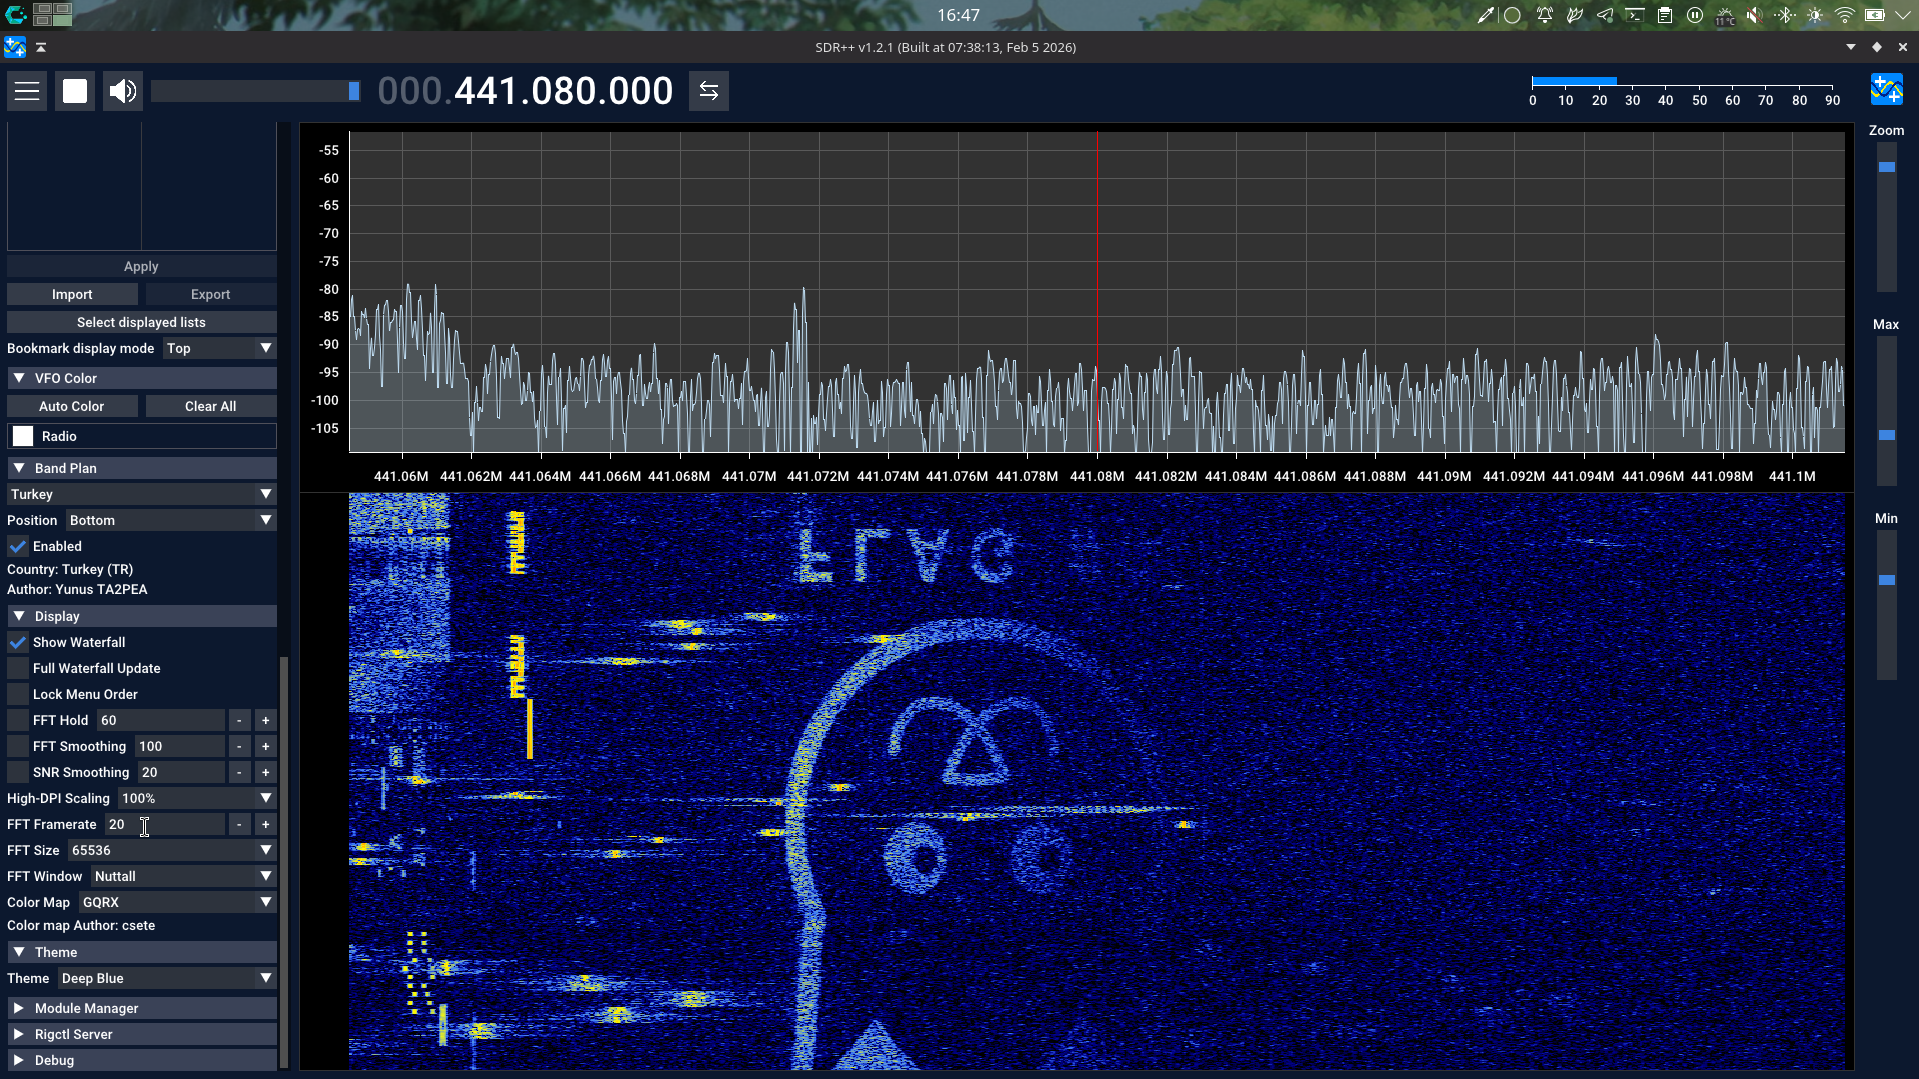
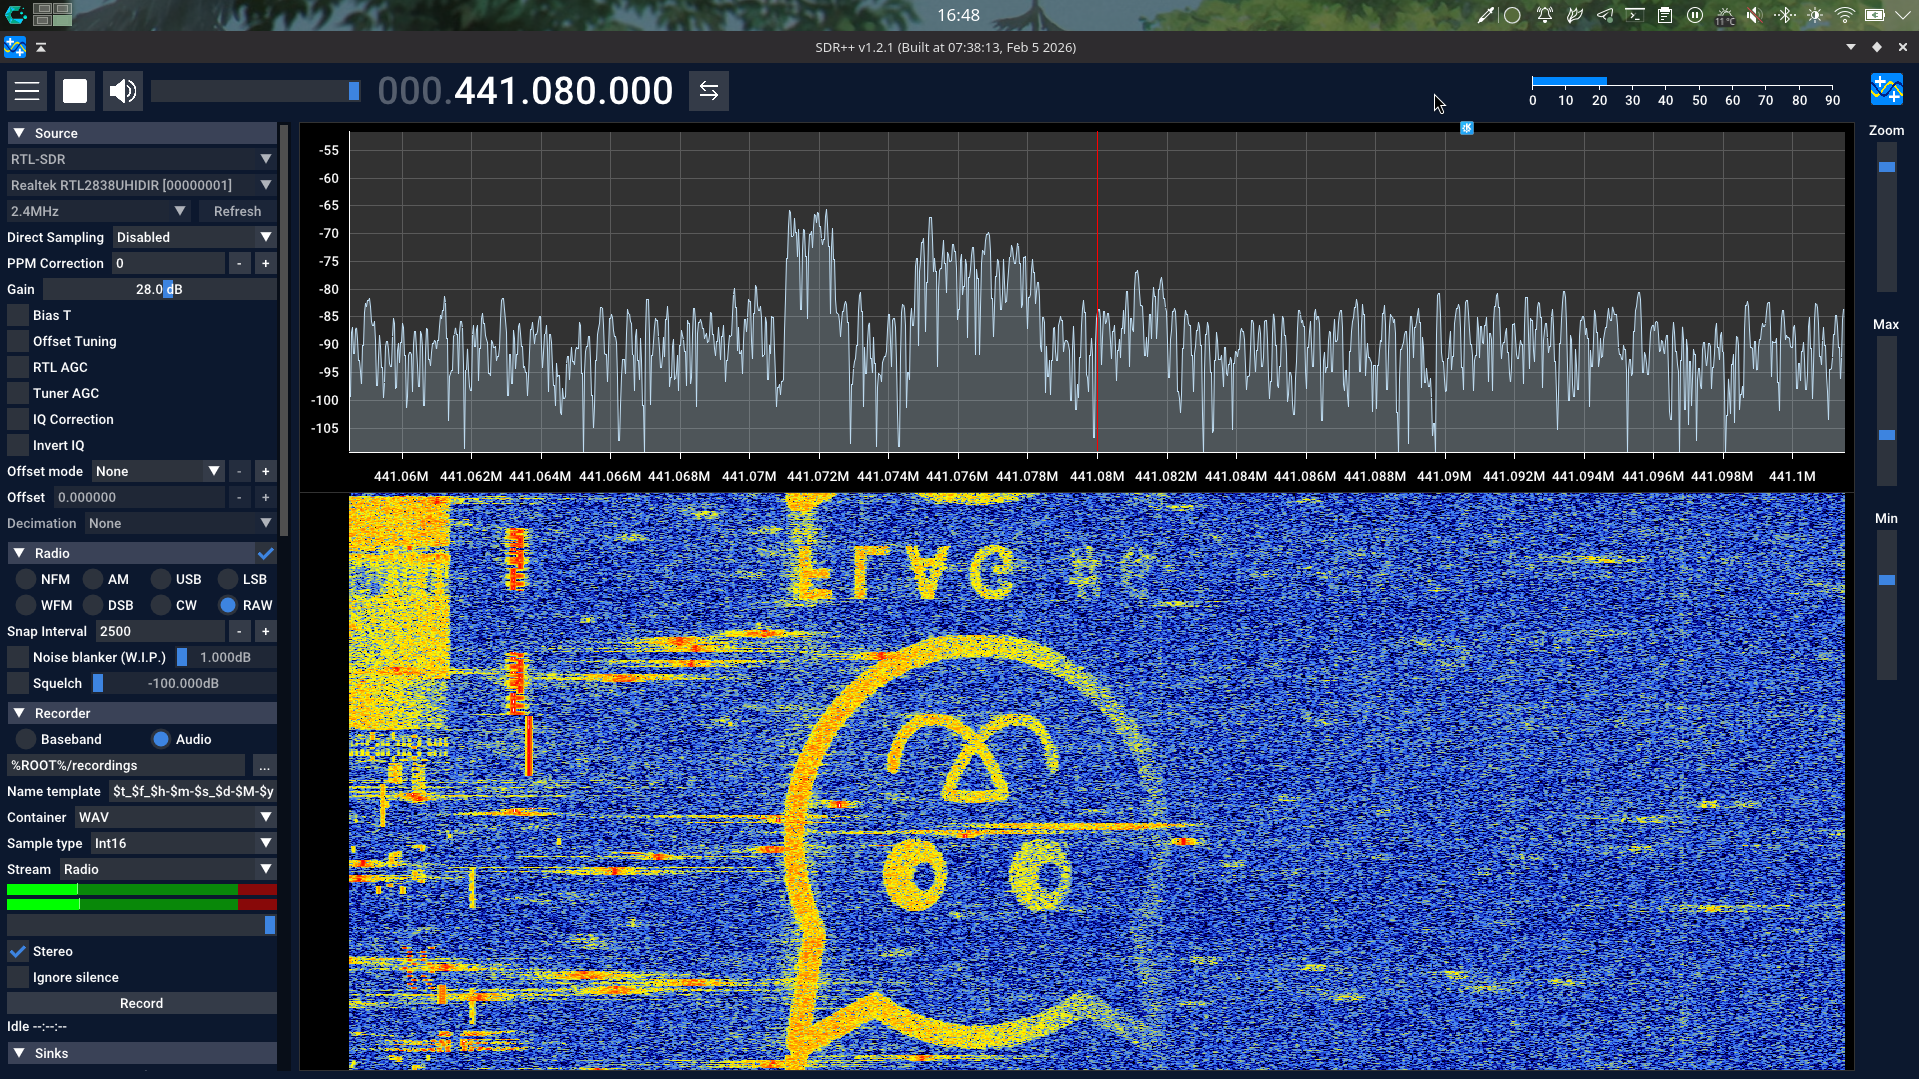
Update blog

diff --git a/src/content/blog/four-days-of-software-defined-radio.md b/src/content/blog/four-days-of-software-defined-radio.md
@@ -67,6 +67,8 @@ Throughout the 4 day course, we did a couple of **Capture the Signal** exercises
 
 Our instructor also had us solve the same CTSs using both a general purpose SDR software (SDR++ or Gqrx) and using GNU Radio. We had to create our own simple flowgraphs in GNU Radio to listen to the signals, it was also fun doing it in two different ways.
 
+![The same cat barely visible in GNU Radio (the sampling rate here was a bit too high 😅)](/images/blog/four-days-of-software-defined-radio/flag_cat_gnuradio.png)
+
 ## ADS-B & Digital Communication
 
 On the last day of the course, we got a brief look into digital radio communication. Our instructor was pretty clear on how modern digital communication systems were extremely complex (think of *WiFi, Bluetooth and 5G*) and it probably wouldn't even fit into a whole semester lecture but he wanted us to briefly discover them as they're incredibly important for modern systems. We learned about some of the differences between analog modulations and digital modulations. We also learned about **ADS-B**, the digital radio broadcast system used by planes to transmit information about their flight status. We then used the [SDRAngel](https://www.sdrangel.org/) software to view the ADS-B data broadcast from planes flying overhead us via our RTL-SDRs. It was super cool to see the data they were broadcasting and see them on the map!
